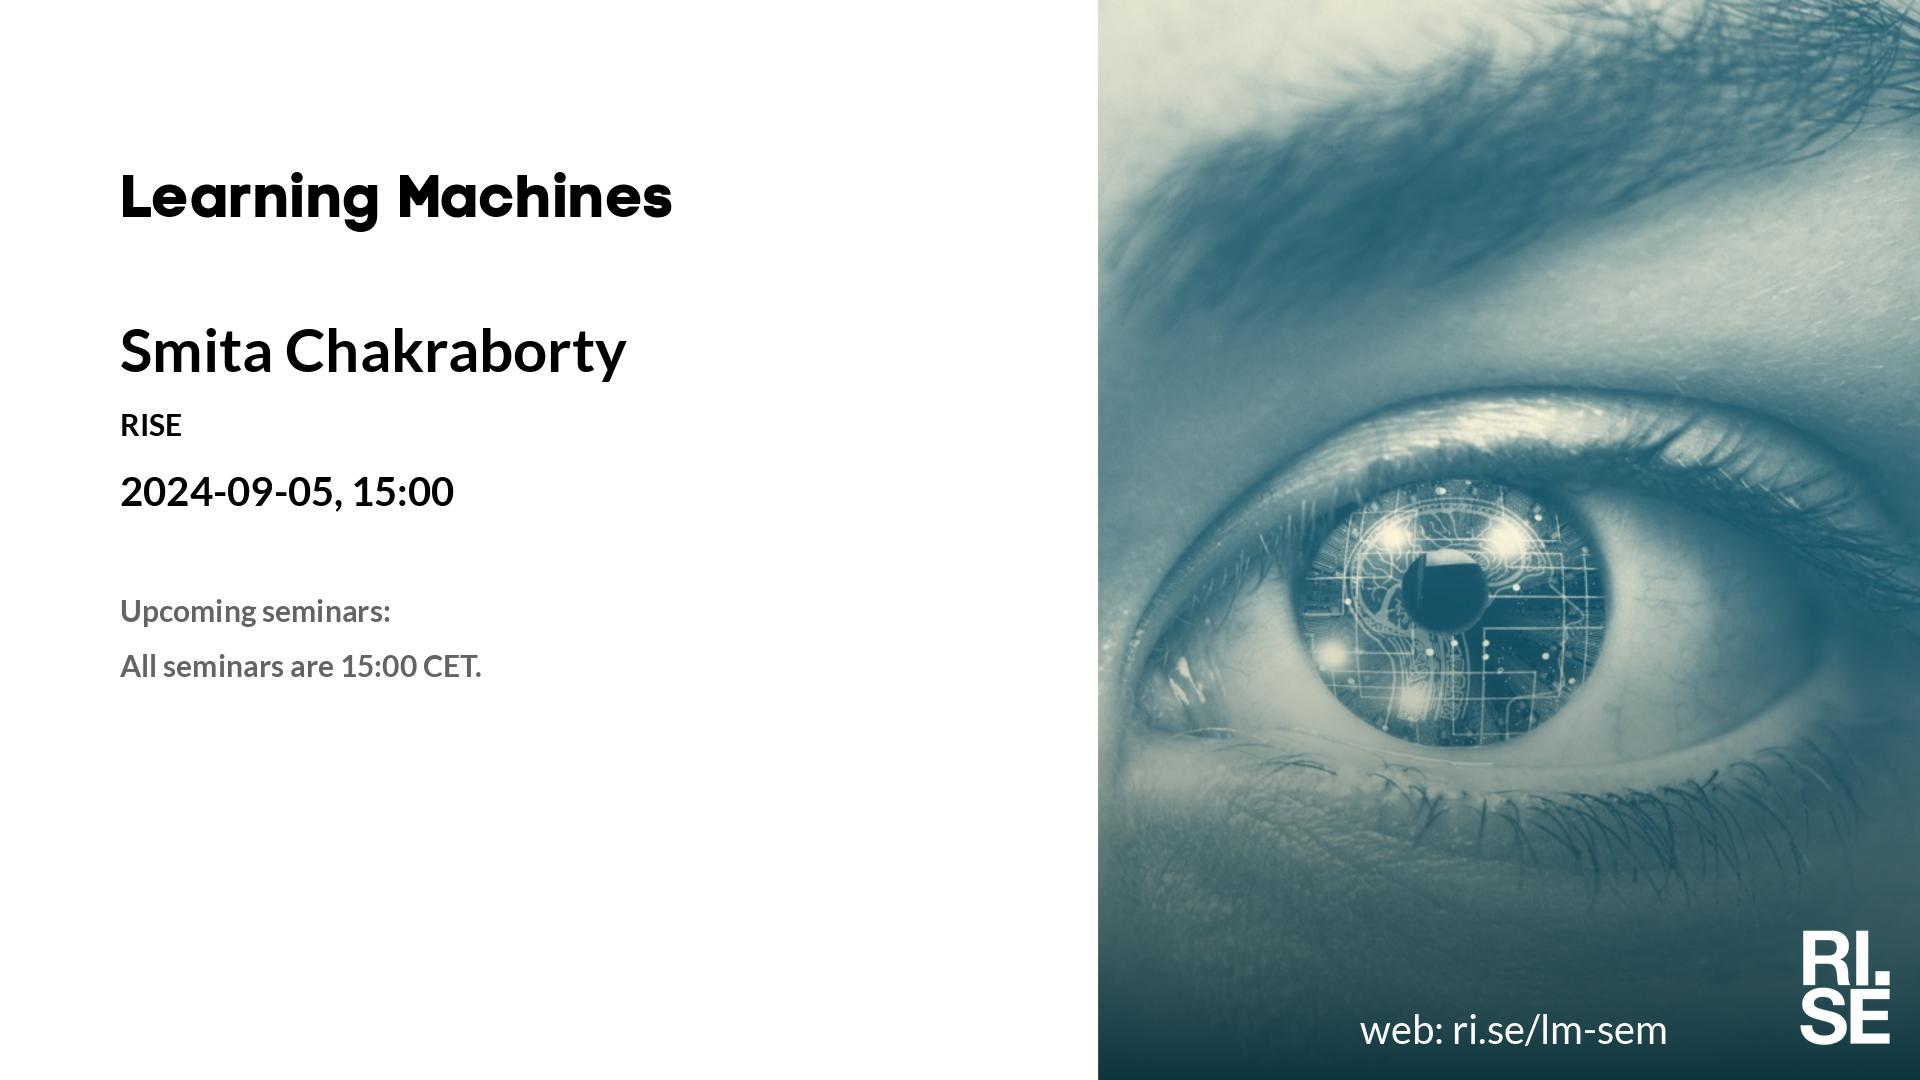
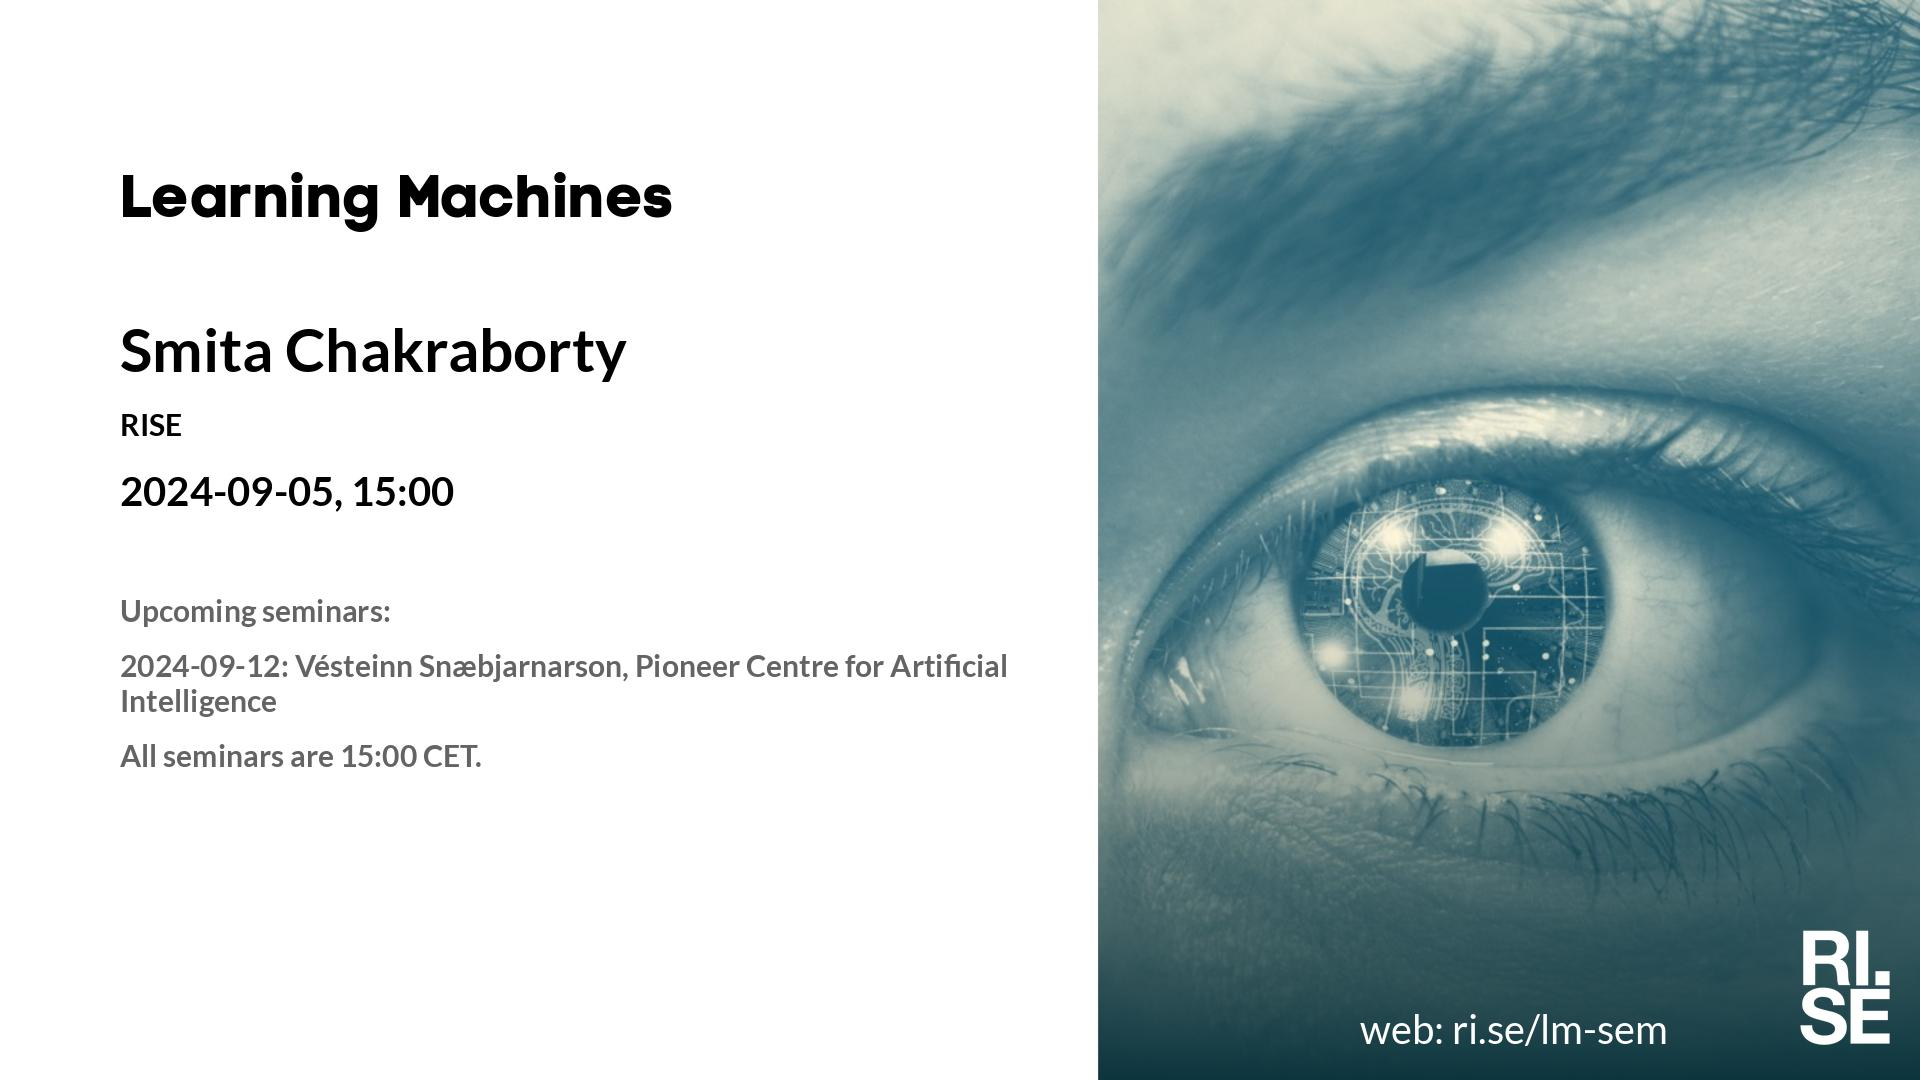
Updated plan on web site.

Changed region(s): [[0.0625, 0.5806, 0.5312, 0.7333]]

diff --git a/lm/index.md b/lm/index.md
@@ -18,7 +18,7 @@ table {border-collapse: collapse;}
 |  2024-05-30  |  [Jonas Hentati Sundberg, Swedish University of Agricultural Sciences](2024-05-30.md)  |    |  [social media ](social-media-jonas-hentati-sundberg.jpg)  |  [meeting backdrop ](meeting-backdrop-jonas-hentati-sundberg.jpg)  |  [youtube thumbnail ](youtube-thumbnail-jonas-hentati-sundberg.jpg)  |  S~~TABP~~  |
 | <span style="color:red"> 2024-06-06 </span> | <span style="color:red"> National d. ? </span> | <span style="color:red">  </span> | <span style="color:red">  </span> | <span style="color:red">  </span> | <span style="color:red">  </span> | <span style="color:red"> CANCELLED </span> |
 |  2024-09-05  |  [Smita Chakraborty, RISE](2024-09-05.md)  |    |  [social media ](social-media-smita-chakraborty.jpg)  |  [meeting backdrop ](meeting-backdrop-smita-chakraborty.jpg)  |  [youtube thumbnail ](youtube-thumbnail-smita-chakraborty.jpg)  |  S~~TABP~~  |
-| <span style="color:purple"> 2024-09-12 </span> | <span style="color:purple"> *Up for grabs!!!* </span> | <span style="color:purple">  </span> | <span style="color:purple">  </span> | <span style="color:purple">  </span> | <span style="color:purple">  </span> | <span style="color:purple"> ~~STABP~~ </span> |
+|  2024-09-12  |  [Vésteinn Snæbjarnarson, Pioneer Centre for Artificial Intelligence](2024-09-12.md)  |    |  [social media ](social-media-vesteinn-snaebjarnarson.jpg)  |  [meeting backdrop ](meeting-backdrop-vesteinn-snaebjarnarson.jpg)  |  [youtube thumbnail ](youtube-thumbnail-vesteinn-snaebjarnarson.jpg)  |  S~~TABP~~  |
 | <span style="color:grey"> 2024-09-19 </span> | <span style="color:grey"> Ekaterina S. ? </span> | <span style="color:grey">  </span> | <span style="color:grey">  </span> | <span style="color:grey">  </span> | <span style="color:grey">  </span> | <span style="color:grey"> S~~TABP~~ </span> |
 | <span style="color:grey"> 2024-09-26 </span> | <span style="color:grey"> Matthias O. ? </span> | <span style="color:grey">  </span> | <span style="color:grey">  </span> | <span style="color:grey">  </span> | <span style="color:grey">  </span> | <span style="color:grey"> S~~TABP~~ </span> |
 | <span style="color:grey"> 2024-10-03 </span> | <span style="color:grey"> Milena P. ? </span> | <span style="color:grey">  </span> | <span style="color:grey">  </span> | <span style="color:grey">  </span> | <span style="color:grey">  </span> | <span style="color:grey"> S~~TABP~~ </span> |

diff --git a/lm/2024-09-12.md b/lm/2024-09-12.md
@@ -6,7 +6,7 @@ Welcome to this week's Learning Machines seminar.
 
 **Title:** N/A
 
-**Speaker:** Smita Chakraborty, RISE
+**Speaker:** Vésteinn Snæbjarnarson, Pioneer Centre for Artificial Intelligence
 
 **Abstract:** N/A
 
@@ -14,13 +14,12 @@ Welcome to this week's Learning Machines seminar.
 
 **Location:** This is an online seminar. Connect using Zoom.
 
-**Date:** 2024-09-05 15:00
+**Date:** 2024-09-12 15:00
 
-**Zoom link:** [https://rise.zoom.us/j/208117140?pwd=ZGlmSHp0QllodjVSbzhobzVHSmlDZz09](https://rise.zoom.us/j/208117140?pwd=ZGlmSHp0QllodjVSbzhobzVHSmlDZz09)
+**Zoom link:** [https://rise.zoom.us/j/208117140](https://rise.zoom.us/j/208117140)
 
 **Upcoming seminars:**
 
-* 2024-09-12: Vésteinn Snæbjarnarson, Pioneer Centre for Artificial Intelligence
 * All seminars are 15:00 CET.
 
 More information and coming seminars: [https://ri.se/lm-sem](https://ri.se/lm-sem)

diff --git a/lm/2024-05-30.md b/lm/2024-05-30.md
@@ -21,6 +21,7 @@ Welcome to this week's Learning Machines seminar.
 **Upcoming seminars:**
 
 * 2024-09-05: Smita Chakraborty, RISE
+* 2024-09-12: Vésteinn Snæbjarnarson, Pioneer Centre for Artificial Intelligence
 * All seminars are 15:00 CET.
 
 More information and coming seminars: [https://ri.se/lm-sem](https://ri.se/lm-sem)
